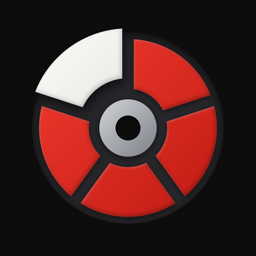
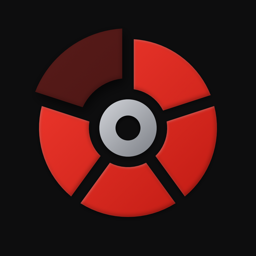
feat(marchio): il disco nel nome, il pezzo in corso, il disco della seduta come il marchio
Il disco compare una volta sola: grande sopra il nome (benvenuto, copertina del sito) o al posto
della "o" (BroliLogotype: firma del Profilo, storia, intestazione del sito), con le misure della
"o" di Bricolage. Più grande sembrava una O maiuscola, e il pezzo che usciva rompeva il cerchio.

Il quinto pezzo non è più di gesso ma "in corso", con una regola sola in codice
(PlatePalette.inProgress: il colore dei pezzi al 32% su quel che c'è sotto) da cui escono icona,
icone del Pro, marchio e disco della seduta. Il gesso bianco sul fondo chiaro spariva e nel nome
si attaccava alla "r". Marchio piatto nei due temi (con la faccia, sul gesso restava un alone);
icone col volume ma senza l'anello attorno ai pezzi. Tolta la "l" rossa: il rosso è del disco.

Il disco della seduta prende la geometria del marchio (PlateShape) e chiuso è il marchio tutto
rosso: un componente per ~60 punti fra iPhone, watch e Live Activity. Piatto vuol dire senza
ombre, non ombre a zero: a opacità zero il renderer dipingeva i pezzi bianchi. Sul sito lo stesso
disegno, in plate.js condiviso da intestazione e landing.

Claude-Session: https://claude.ai/code/session_01XEjk1GyG47xH62wFzxuEza

Changed region(s): [[0.125, 0.0938, 0.8438, 0.8125]]

diff --git a/plate.js b/plate.js
@@ -1,0 +1,115 @@
+// Il disco della seduta e il marchio, ridisegnati in SVG da SessionPlate.swift (stessa geometria,
+// stessi colori): li usano l'intestazione di ogni pagina (il nome col disco nella "o") e la landing.
+(function () {
+  "use strict";
+  const C = {
+    // I pezzi vuoti e il pezzo in corso del marchio seguono il tema (variabili in style.css); per
+    // questo vanno in style: gli attributi fill e stroke non leggono le variabili CSS.
+    empty: "var(--pl-empty)",
+    markRed: ["#F23A2F", "#C01A12"], markArriving: ["var(--mark-arr-a)", "var(--mark-arr-b)"],
+    markSteel: ["#D3D5DA", "#7C7F86"], markCore: "#0D0D0E",
+  };
+  let uid = 0;
+
+  // PlateArc: corona da `from` a `to` (giri da ore 12, senso orario), con fessure a bordi paralleli.
+  function arc(c, base, from, to, inner = 0.66, gs = 0, ge = 0, push = 0) {
+    const mid = (base + base * inner) / 2, outer = base * (1 + push), ir = base * (inner + push);
+    const hs = mid * Math.sin(Math.PI * gs), he = mid * Math.sin(Math.PI * ge);
+    const as = (from - gs / 2) * 2 * Math.PI - Math.PI / 2, ae = (to + ge / 2) * 2 * Math.PI - Math.PI / 2;
+    const edge = (axis, half, r, sign) => axis + sign * Math.asin(Math.min(1, half / r));
+    const o0 = edge(as, hs, outer, 1), o1 = edge(ae, he, outer, -1);
+    const i0 = edge(as, hs, ir, 1), i1 = edge(ae, he, ir, -1);
+    if (!(o1 > o0 && i1 > i0)) return "";
+    const p = (r, a) => `${(c + r * Math.cos(a)).toFixed(2)} ${(c + r * Math.sin(a)).toFixed(2)}`;
+    return `M${p(outer, o0)}A${outer} ${outer} 0 ${o1 - o0 > Math.PI ? 1 : 0} 1 ${p(outer, o1)}` +
+      `L${p(ir, i1)}A${ir} ${ir} 0 ${i1 - i0 > Math.PI ? 1 : 0} 0 ${p(ir, i0)}Z`;
+  }
+
+  // La geometria del marchio, una sola anche per il disco della seduta (PlateShape in SessionPlate.swift):
+  // pezzi da 0,44 a 1 del raggio nel 93% del lato, fessure a striscia del 6%, più strette oltre sei pezzi.
+  const INNER = 0.44, R = 46.5, MID = R * (1 + INNER) / 2;
+  const gapFor = (strip) => Math.asin((strip * 100) / 2 / MID) / Math.PI;
+  const gapPieces = (n) => (n > 1 ? gapFor(Math.min(0.06, 0.36 / n)) : 0);
+  const redGrad = (id) => `<linearGradient id="${id}" gradientUnits="userSpaceOnUse" x1="3.5" y1="3.5" x2="96.5" y2="96.5"><stop offset="0" stop-color="#F23A2F"/><stop offset="1" stop-color="#C01A12"/></linearGradient>`;
+
+  // Il mozzo del marchio: acciaio col foro scuro; col numero il foro si allarga.
+  function hub(text) {
+    const id = "st" + uid++;
+    return `<defs><linearGradient id="${id}" x1="0" y1="0" x2="1" y2="1"><stop offset="0" stop-color="${C.markSteel[0]}"/><stop offset="1" stop-color="${C.markSteel[1]}"/></linearGradient></defs>` +
+      `<circle cx="50" cy="50" r="15" fill="url(#${id})"/><circle cx="50" cy="50" r="${text ? 9.5 : 6.5}" fill="${C.markCore}"/>` +
+      (text ? `<text x="50" y="50" dy=".36em" text-anchor="middle" font-family="Barlow SC" font-weight="700" font-size="12" fill="#F1F0EC">${text}</text>` : "");
+  }
+
+  // SessionPlate .parts: `done` pezzi rossi, il successivo in corso (il rosso al 32%). Pieno = ClosedPlate.
+  function plate(total, done, hubText) {
+    if (done >= total) return closed(total);
+    const gap = gapPieces(total), rid = "rd" + uid++;
+    let s = `<svg viewBox="0 0 100 100" aria-hidden="true"><defs>${redGrad(rid)}</defs>`;
+    for (let i = 0; i < total; i++) {
+      const fill = i < done ? `url(#${rid})` : i === done ? "rgba(226,35,26,.32)" : C.empty;
+      s += `<path style="fill:${fill}" d="${arc(50, R, i / total + gap / 2, (i + 1) / total - gap / 2, INNER, gap, gap)}"/>`;
+    }
+    return s + hub(hubText) + "</svg>";
+  }
+
+  // .superset: giri di esercizi, i pezzi di un giro vicini, il secondo esercizio in un rosso più profondo.
+  function superset(rounds, exercises, done, hubText) {
+    const n = rounds * exercises, roundGap = gapPieces(rounds), pieceGap = gapFor(0.016), span = 1 / rounds;
+    const piece = (span - roundGap - (exercises - 1) * pieceGap) / exercises, rid = "rd" + uid++;
+    let s = `<svg viewBox="0 0 100 100" aria-hidden="true"><defs>${redGrad(rid)}</defs>`;
+    for (let i = 0; i < n; i++) {
+      const r = Math.floor(i / exercises), e = i % exercises, from = r * span + roundGap / 2 + e * (piece + pieceGap);
+      const deep = e % 2 === 1;
+      const fill = i < done ? (deep ? "#A3150F" : `url(#${rid})`) : i === done ? (deep ? "rgba(163,21,15,.32)" : "rgba(226,35,26,.32)") : C.empty;
+      s += `<path style="fill:${fill}" d="${arc(50, R, from, from + piece, INNER, e === 0 ? roundGap : pieceGap, e === exercises - 1 ? roundGap : pieceGap)}"/>`;
+    }
+    return s + hub(hubText) + "</svg>";
+  }
+
+  // .timed (AMRAP): niente pezzi, il disco si riempie col tempo.
+  function timed(progress, hubText) {
+    const rid = "rd" + uid++, w = R * (1 - INNER);
+    return `<svg viewBox="0 0 100 100" aria-hidden="true"><defs>${redGrad(rid)}</defs>` +
+      `<circle cx="50" cy="50" r="${R - w / 2}" fill="none" style="stroke:${C.empty}" stroke-width="${w}"/>` +
+      `<path fill="url(#${rid})" d="${arc(50, R, 0, progress, INNER)}"/>` + hub(hubText) + "</svg>";
+  }
+
+  // Lo stato chiuso: il marchio coi pezzi tutti rossi.
+  function closed(pieces = 5) {
+    const gap = gapPieces(pieces), rid = "rd" + uid++;
+    let s = `<svg viewBox="0 0 100 100" aria-hidden="true"><defs>${redGrad(rid)}</defs>`;
+    for (let i = 0; i < pieces; i++) s += `<path fill="url(#${rid})" d="${arc(50, R, i / pieces + gap / 2, (i + 1) / pieces - gap / 2, INNER, gap, gap)}"/>`;
+    return s + hub() + "</svg>";
+  }
+
+  // BroliPlate col palette .mark, il marchio piatto: quattro pezzi rossi e il quinto, in corso (il
+  // rosso al 32% sul fondo del tema), che arriva. Niente faccia (le fessure sono tagli nel fondo) e
+  // niente ombre, come nell'app; l'icona sola ha il volume. `fill` e `push` si animano come nel
+  // benvenuto dell'app.
+  const GAP = Math.asin(0.03 / (0.72 * 0.465)) / Math.PI;
+  function markSVG() {
+    const k = uid++;
+    const grad = (id, [a, b]) => `<linearGradient id="${id}${k}" gradientUnits="userSpaceOnUse" x1="3.5" y1="3.5" x2="96.5" y2="96.5"><stop offset="0" style="stop-color:${a}"/><stop offset="1" style="stop-color:${b}"/></linearGradient>`;
+    return `<svg viewBox="-6 -6 112 112" aria-hidden="true"><defs>${grad("r", C.markRed)}${grad("c", C.markArriving)}${grad("s", C.markSteel)}</defs>` +
+      [0, 1, 2, 3].map(() => `<path class="piece" fill="url(#r${k})"/>`).join("") +
+      `<path class="piece" fill="url(#c${k})"/>` +
+      `<circle cx="50" cy="50" r="15" fill="url(#s${k})"/><circle cx="50" cy="50" r="6.5" fill="${C.markCore}"/></svg>`;
+  }
+  function drawMark(el, fill, push) {
+    el.querySelectorAll(".piece").forEach((p, i) => {
+      const from = i / 5 + GAP / 2, to = (i + 1) / 5 - GAP / 2;
+      const t = Math.min(1, Math.max(0, (fill - i / 5) * 5));
+      p.setAttribute("d", arc(50, 46.5, from, from + (to - from) * t, 0.44, GAP, GAP, i === 4 ? push : 0));
+    });
+  }
+
+  // Il nome col disco al posto della "o", come BroliLogotype nell'app: il disco a filo, con le misure della "o" di Bricolage (vedi .wordmark .o in style.css).
+  function logotype() {
+    const t = document.createElement("div");
+    t.innerHTML = markSVG();
+    drawMark(t, 1, 0);
+    return `br<span class="o">${t.innerHTML}</span>li`;
+  }
+
+  window.Plate = { arc, plate, superset, timed, closed, markSVG, drawMark, logotype };
+})();

diff --git a/landing.js b/landing.js
@@ -7,102 +7,8 @@
   const kg = (v) => v.toLocaleString(en ? "en-US" : "it-IT", { maximumFractionDigits: 1 });
   const still = matchMedia("(prefers-reduced-motion: reduce)").matches;
 
-  const C = {
-    // Faccia, pezzi vuoti e mozzo seguono il tema (variabili in style.css); per questo vanno in style:
-    // gli attributi fill e stroke non leggono le variabili CSS.
-    red: "#E2231A", face: "var(--pl-face)", empty: "var(--pl-empty)", hubRing: "var(--pl-ring)", hubCore: "var(--pl-core)",
-    steel: "#B9BCC2", steelDark: "#6E7177", chalk: "var(--pl-chalk)",
-    markFace: "#26262A", markRed: ["#F23A2F", "#C01A12"], markChalk: ["#FBFAF7", "#D4D1C9"],
-    markSteel: ["#D3D5DA", "#7C7F86"], markCore: "#0D0D0E",
-  };
-  let uid = 0;
+  const { plate, superset, timed, closed, markSVG, drawMark } = window.Plate;
 
-  // PlateArc: corona da `from` a `to` (giri da ore 12, senso orario), con fessure a bordi paralleli.
-  function arc(c, base, from, to, inner = 0.66, gs = 0, ge = 0, push = 0) {
-    const mid = (base + base * inner) / 2, outer = base * (1 + push), ir = base * (inner + push);
-    const hs = mid * Math.sin(Math.PI * gs), he = mid * Math.sin(Math.PI * ge);
-    const as = (from - gs / 2) * 2 * Math.PI - Math.PI / 2, ae = (to + ge / 2) * 2 * Math.PI - Math.PI / 2;
-    const edge = (axis, half, r, sign) => axis + sign * Math.asin(Math.min(1, half / r));
-    const o0 = edge(as, hs, outer, 1), o1 = edge(ae, he, outer, -1);
-    const i0 = edge(as, hs, ir, 1), i1 = edge(ae, he, ir, -1);
-    if (!(o1 > o0 && i1 > i0)) return "";
-    const p = (r, a) => `${(c + r * Math.cos(a)).toFixed(2)} ${(c + r * Math.sin(a)).toFixed(2)}`;
-    return `M${p(outer, o0)}A${outer} ${outer} 0 ${o1 - o0 > Math.PI ? 1 : 0} 1 ${p(outer, o1)}` +
-      `L${p(ir, i1)}A${ir} ${ir} 0 ${i1 - i0 > Math.PI ? 1 : 0} 0 ${p(ir, i0)}Z`;
-  }
-
-  function hub(text) {
-    const id = "st" + uid++;
-    return `<defs><linearGradient id="${id}" x1="0" y1="0" x2="1" y2="1"><stop offset="0" stop-color="${C.steel}"/><stop offset="1" stop-color="${C.steelDark}"/></linearGradient></defs>` +
-      `<circle cx="50" cy="50" r="19" style="fill:${C.hubRing}"/><circle cx="50" cy="50" r="14.5" fill="url(#${id})"/>` +
-      `<circle cx="50" cy="50" r="8.5" style="fill:${C.hubCore}"/>` +
-      (text ? `<text x="50" y="50" dy=".36em" text-anchor="middle" font-family="Barlow SC" font-weight="700" font-size="15" style="fill:${C.chalk}">${text}</text>` : "");
-  }
-
-  // SessionPlate .parts: `done` pezzi rossi, il successivo rosso tenue (in corso). Pieno = ClosedPlate.
-  function plate(total, done, hubText) {
-    if (done >= total) return closed(total);
-    const gap = total > 1 ? 0.012 + 0.02 / total : 0;
-    let s = `<svg viewBox="0 0 100 100" aria-hidden="true"><circle cx="50" cy="50" r="50" style="fill:${C.face}"/>`;
-    for (let i = 0; i < total; i++) {
-      const fill = i < done ? C.red : i === done ? "rgba(226,35,26,.32)" : C.empty;
-      s += `<path style="fill:${fill}" d="${arc(50, 45.5, i / total + gap / 2, (i + 1) / total - gap / 2, 0.66, gap, gap)}"/>`;
-    }
-    return s + hub(hubText) + "</svg>";
-  }
-
-  // .superset: giri di esercizi, i pezzi di un giro vicini, il secondo esercizio in un rosso più profondo.
-  function superset(rounds, exercises, done, hubText) {
-    const n = rounds * exercises, roundGap = 0.03, pieceGap = 0.008, span = 1 / rounds;
-    const piece = (span - roundGap - (exercises - 1) * pieceGap) / exercises;
-    let s = `<svg viewBox="0 0 100 100" aria-hidden="true"><circle cx="50" cy="50" r="50" style="fill:${C.face}"/>`;
-    for (let i = 0; i < n; i++) {
-      const r = Math.floor(i / exercises), e = i % exercises, from = r * span + roundGap / 2 + e * (piece + pieceGap);
-      const base = e % 2 ? "163,21,15" : "226,35,26";
-      const fill = i < done ? `rgb(${base})` : i === done ? `rgba(${base},.32)` : C.empty;
-      s += `<path style="fill:${fill}" d="${arc(50, 45.5, from, from + piece, 0.66, e === 0 ? roundGap : pieceGap, e === exercises - 1 ? roundGap : pieceGap)}"/>`;
-    }
-    return s + hub(hubText) + "</svg>";
-  }
-
-  // .timed (AMRAP): niente pezzi, il disco si riempie col tempo.
-  function timed(progress, hubText) {
-    return `<svg viewBox="0 0 100 100" aria-hidden="true"><circle cx="50" cy="50" r="50" style="fill:${C.face}"/>` +
-      `<circle cx="50" cy="50" r="37.77" fill="none" style="stroke:${C.empty}" stroke-width="15.47"/>` +
-      `<path fill="${C.red}" d="${arc(50, 45.5, 0, progress)}"/>` + hub(hubText) + "</svg>";
-  }
-
-  function closed(pieces = 5) {
-    const id = "hl" + uid++;
-    let s = `<svg viewBox="0 0 100 100" aria-hidden="true"><defs><radialGradient id="${id}" cx=".35" cy=".3" r=".7"><stop offset="0" stop-color="#fff" stop-opacity=".12"/><stop offset="1" stop-color="#fff" stop-opacity="0"/></radialGradient></defs>` +
-      `<circle cx="50" cy="50" r="50" fill="${C.red}"/><circle cx="50" cy="50" r="50" fill="url(#${id})"/>`;
-    for (let i = 0; i < pieces; i++) s += `<rect x="47.25" y="0" width="5.5" height="17" style="fill:${C.face}" transform="rotate(${(i * 360) / pieces} 50 50)"/>`;
-    return s + `<circle cx="50" cy="50" r="33" fill="none" stroke="#000" stroke-opacity=".28" stroke-width="1.4"/>` +
-      `<circle cx="50" cy="50" r="49" fill="none" style="stroke:${C.face}" stroke-width="2"/>` + hub() + "</svg>";
-  }
-
-  // BroliPlate, il marchio: quattro pezzi rossi e il quinto, di gesso, che arriva. `fill` e `push`
-  // si animano come nel benvenuto dell'app.
-  const GAP = Math.asin(0.03 / (0.72 * 0.465)) / Math.PI;
-  function markSVG() {
-    const k = uid++;
-    const grad = (id, [a, b]) => `<linearGradient id="${id}${k}" gradientUnits="userSpaceOnUse" x1="3.5" y1="3.5" x2="96.5" y2="96.5"><stop offset="0" stop-color="${a}"/><stop offset="1" stop-color="${b}"/></linearGradient>`;
-    return `<svg viewBox="-6 -6 112 112" aria-hidden="true"><defs>${grad("r", C.markRed)}${grad("c", C.markChalk)}${grad("s", C.markSteel)}` +
-      `<filter id="d${k}" x="-20%" y="-20%" width="140%" height="140%"><feDropShadow dx="0" dy=".8" stdDeviation="1.2" flood-color="#000" flood-opacity=".45"/></filter>` +
-      `<filter id="dc${k}" x="-30%" y="-30%" width="160%" height="160%"><feDropShadow dx="1" dy="2.2" stdDeviation="3" flood-color="#000" flood-opacity=".65"/></filter>` +
-      `<radialGradient id="in${k}" cx=".5" cy=".42" r=".55"><stop offset=".85" stop-color="${C.markFace}"/><stop offset="1" stop-color="#151517"/></radialGradient></defs>` +
-      `<circle cx="50" cy="50" r="50" fill="url(#in${k})"/>` +
-      [0, 1, 2, 3].map(() => `<path class="piece" fill="url(#r${k})" filter="url(#d${k})"/>`).join("") +
-      `<path class="piece" fill="url(#c${k})" filter="url(#dc${k})"/>` +
-      `<circle cx="50" cy="50" r="15" fill="url(#s${k})" filter="url(#d${k})"/><circle cx="50" cy="50" r="6.5" fill="${C.markCore}"/></svg>`;
-  }
-  function drawMark(el, fill, push) {
-    el.querySelectorAll(".piece").forEach((p, i) => {
-      const from = i / 5 + GAP / 2, to = (i + 1) / 5 - GAP / 2;
-      const t = Math.min(1, Math.max(0, (fill - i / 5) * 5));
-      p.setAttribute("d", arc(50, 46.5, from, from + (to - from) * t, 0.44, GAP, GAP, i === 4 ? push : 0));
-    });
-  }
   const ease = (t) => (t < 0.5 ? 2 * t * t : 1 - Math.pow(-2 * t + 2, 2) / 2);
   const back = (t) => 1 + 2.4 * Math.pow(t - 1, 3) + 1.4 * Math.pow(t - 1, 2);
   function animateMark(el) {

diff --git a/style.css b/style.css
@@ -5,15 +5,18 @@
 :root, [data-theme="dark"] {
   --bg: #0D0D0E; --raised: #17171A; --raised2: #222226; --ink: #F1F0EC; --ink2: #8D8D93; --ink3: #55555B;
   --line: rgba(255,255,255,.08); --heat: #E2231A; --heat-text: #FF2D24; --shade: rgba(0,0,0,.6);
-  /* Il disco della seduta (PlatePalette): in scuro sale a gradini dalla gomma. */
-  --pl-face: #1C1C1F; --pl-empty: #323238; --pl-ring: #111113; --pl-core: #2A2A2E; --pl-chalk: #F1F0EC;
+  /* Il disco della seduta (PlatePalette): i pezzi vuoti, un gradino sopra la gomma. */
+  --pl-empty: #323238;
+  /* Il marchio: il pezzo in corso è il rosso al 32% sul fondo del tema, già mescolato. */
+  --mark-arr-a: #561B19; --mark-arr-b: #46110F;
   color-scheme: dark;
 }
 /* Il tema lo sceglie prefs.js (scelta salvata, altrimenti il sistema) prima che la pagina si disegni. */
 [data-theme="light"] {
   --bg: #EEEDE8; --raised: #F9F8F5; --raised2: #E2E1DB; --ink: #15171A; --ink2: #55595F; --ink3: #9C9DA2;
   --line: rgba(21,23,26,.08); --heat-text: #C41E16; --shade: rgba(21,23,26,.22);
-  --pl-face: #DCDBD5; --pl-empty: #C6C5BF; --pl-ring: #F6F5F1; --pl-core: #D6D5CF; --pl-chalk: #15171A;
+  --pl-empty: #C6C5BF;
+  --mark-arr-a: #EFB4AD; --mark-arr-b: #DFA9A4;
   color-scheme: light;
 }
 
@@ -41,8 +44,12 @@ html[data-lang="it"] .en, html[data-lang="en"] .it { display: none; }
 @media (max-width: 400px) { .site-header nav { gap: 12px; } }
 
 .wordmark { font-family: "Bricolage", sans-serif; font-weight: 800; letter-spacing: -.02em; color: var(--ink); text-decoration: none; line-height: 1; }
-.wordmark .l { display: inline-block; color: var(--heat); transform: scaleY(1.14); transform-origin: 50% 80%; }
-.site-header .wordmark { font-size: 28px; }
+/* Il disco al posto della "o": le misure della o di Bricolage ExtraBold (da 0,014 em sotto la base a
+   0,542 em sopra, larga 0,593 em), uguali a BroliLogotype nell'app. Il bordo rosso del disco
+   (93 unità su 112 del disegno) è il contorno della o. */
+.wordmark .o { display: inline-block; position: relative; width: .593em; height: .556em; vertical-align: -.014em; }
+.wordmark .o svg { position: absolute; width: .6696em; height: .6696em; left: -.0383em; top: -.0568em; }
+.site-header .wordmark { font-size: 32px; }
 
 h1, h2 { font-family: "Barlow SC", sans-serif; font-weight: 700; line-height: 1.15; }
 h1 { font-size: 40px; margin: 48px 0 8px; }

diff --git a/header.js b/header.js
@@ -9,7 +9,7 @@
   var sun = '<svg class="sun" viewBox="0 0 24 24" fill="none" stroke="currentColor" stroke-width="2" stroke-linecap="round"><circle cx="12" cy="12" r="4.5"/><path d="M12 2v2.5M12 19.5V22M2 12h2.5M19.5 12H22M4.9 4.9l1.8 1.8M17.3 17.3l1.8 1.8M4.9 19.1l1.8-1.8M17.3 6.7l1.8-1.8"/></svg>';
   var moon = '<svg class="moon" viewBox="0 0 24 24" fill="currentColor"><path d="M20.5 14.6A8.5 8.5 0 0 1 9.4 3.5a8.5 8.5 0 1 0 11.1 11.1z"/></svg>';
   document.currentScript.insertAdjacentHTML("beforebegin",
-    '<header class="site-header"><a class="wordmark" href="./" aria-label="Broli">bro<span class="l">l</span>i</a><nav>' +
+    '<header class="site-header"><a class="wordmark" href="./" aria-label="Broli">' + window.Plate.logotype() + "</a><nav>" +
     link("privacy", "privacy", "Privacy") +
     link("support", "support", it ? "Supporto" : "Support") +
     '<a href="?lang=' + (it ? "en" : "it") + '">' + (it ? "English" : "Italiano") + "</a>" +

diff --git a/index.html b/index.html
@@ -15,6 +15,7 @@
 <link rel="stylesheet" href="style.css">
 <link rel="stylesheet" href="landing.css">
 <script src="prefs.js"></script>
+<script src="plate.js"></script>
 </head>
 <body>
 <script src="header.js"></script>
@@ -22,7 +23,7 @@
 <main>
   <section class="cover">
     <div class="mark" data-mark></div>
-    <h1 class="wordmark" aria-label="Broli">bro<span class="l">l</span>i</h1>
+    <h1 class="wordmark">broli</h1>
     <p class="motto">Lift. Log. Grow.</p>
     <p class="lede it">Il diario d'allenamento per iPhone e Apple Watch. Segui la scheda, segna ogni serie con un tocco e guarda il disco che si costruisce.</p>
     <p class="lede en">The workout log for iPhone and Apple Watch. Follow your routine, log every set with one tap and watch the plate build up.</p>

diff --git a/landing.css b/landing.css
@@ -6,7 +6,7 @@
 .watch, .lock, .island {
   --bg: #0D0D0E; --raised2: #222226; --ink: #F1F0EC; --ink2: #8D8D93; --ink3: #55555B;
   --line: rgba(255,255,255,.08); --heat-text: #FF2D24;
-  --pl-face: #1C1C1F; --pl-empty: #323238; --pl-ring: #111113; --pl-core: #2A2A2E; --pl-chalk: #F1F0EC;
+  --pl-empty: #323238;
   color: var(--ink);
 }
 .landing main { overflow-x: clip; }

diff --git a/privacy.html b/privacy.html
@@ -8,6 +8,7 @@
 <link rel="icon" href="assets/favicon.png">
 <link rel="stylesheet" href="style.css">
 <script src="prefs.js"></script>
+<script src="plate.js"></script>
 </head>
 <body>
 <script src="header.js"></script>

diff --git a/support.html b/support.html
@@ -8,6 +8,7 @@
 <link rel="icon" href="assets/favicon.png">
 <link rel="stylesheet" href="style.css">
 <script src="prefs.js"></script>
+<script src="plate.js"></script>
 </head>
 <body>
 <script src="header.js"></script>
